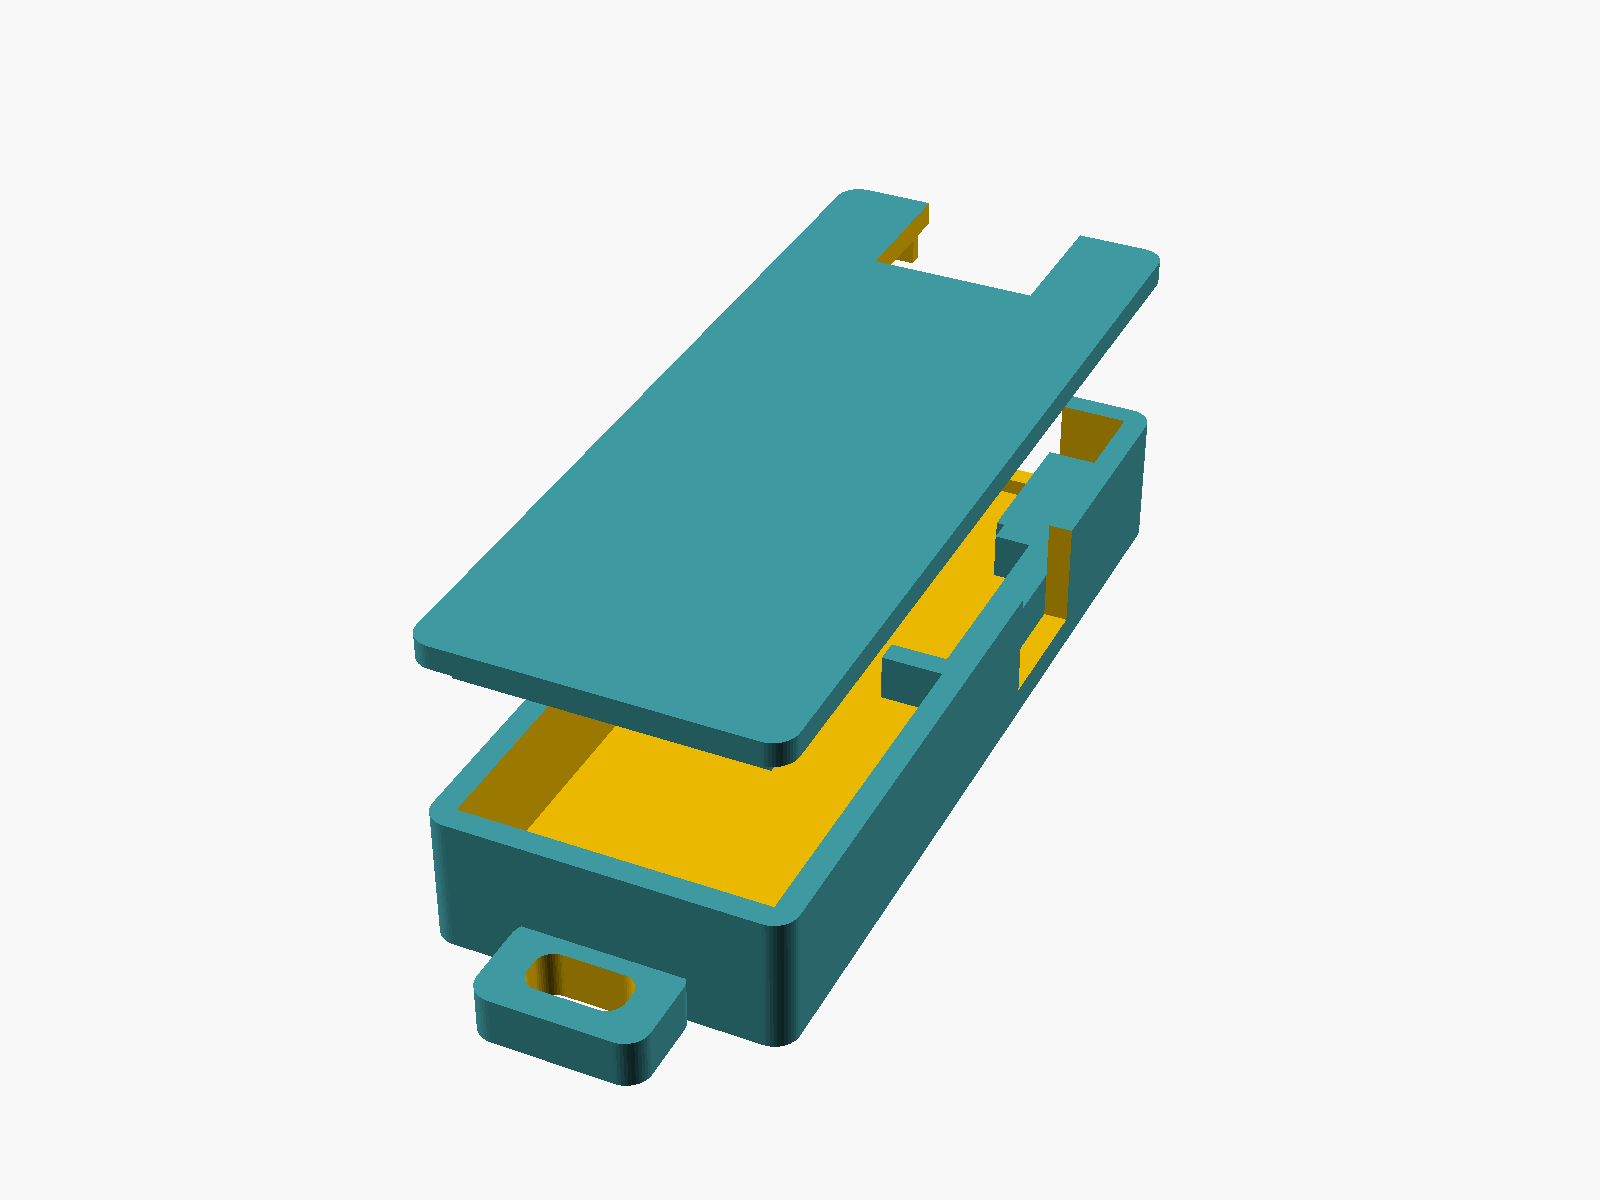
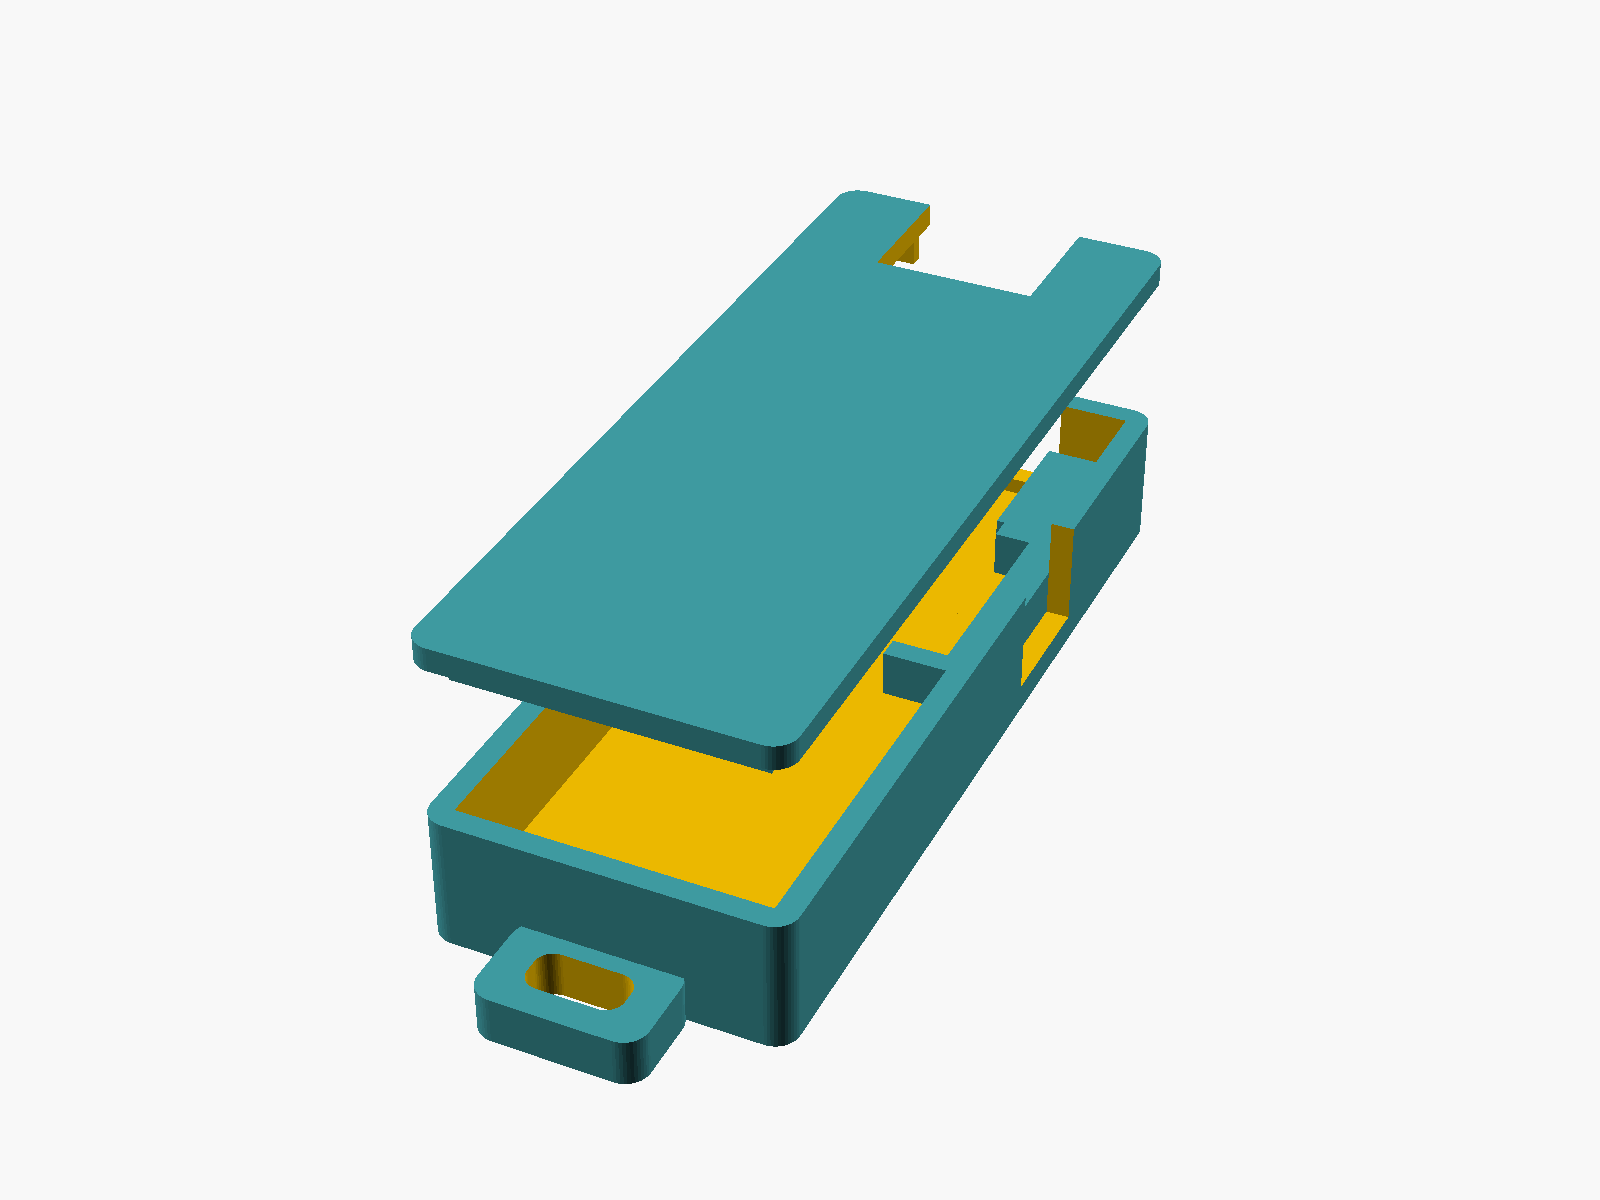
Add a Wi-Fi antenna recess to the tag case lid and match the default LiPo
Place the C5's bundled 14.3x5.3 mm FPC Wi-Fi antenna in a lid recess
above the C5, away from the UWB antenna and the battery. Change the
default battery size to the 400 mAh cell listed in the hardware guide
and note that the DIP pin headers must not be soldered.

diff --git a/docs/hardware.md b/docs/hardware.md
@@ -38,7 +38,7 @@
 
 - **国内での入手先**: スイッチサイエンスで[M5Stamp UWBモジュール(FPCコネクタ、FPCケーブル付き)M5STACK-S017-F](https://www.switch-science.com/products/11375)と[M5StampC5 DIP M5STACK-S016-DIP](https://www.switch-science.com/products/11352)が扱われており、本ドキュメントの想定構成と一致する。アンカー・タグとも同一ユニットなので、両方をノード台数分そろえる。
 - **Stamp C5「DIP」版のピンヘッダ**: DIP版には2.54mm-7Pピンヘッダ2本が付属するが、UWB FとはFPCで直結するため**はんだ付けは不要**。§4の3Dプリントモデルはヘッダなしの公称寸法で作っているので、ヘッダを付けるとケース・取付具に収まらない可能性がある。
-- **Wi-Fi用外付けアンテナ**: Stamp C5のWi-Fiは付属アンテナ(FPCアンテナ、2.4/5 GHz、IPEX-1、14.3×5.3 mm、ケーブル長50 mm。[公式ドキュメント](https://docs.m5stack.com/en/core/Stamp-C5)参照)をIPEX-1コネクタにつないで使う。Stamp C5に同梱されているので別途購入は不要。タグはWi-Fiテレメトリに必須(アンカーはWi-Fi不要)。現行の3DプリントモデルはWi-Fiアンテナの配置を考慮していないため、収めるときは取り回しを確認する(UWBアンテナ端と重ねない)。
+- **Wi-Fi用外付けアンテナ**: Stamp C5のWi-Fiは付属アンテナ(FPCアンテナ、2.4/5 GHz、IPEX-1、14.3×5.3 mm、ケーブル長50 mm。[公式ドキュメント](https://docs.m5stack.com/en/core/Stamp-C5)参照)をIPEX-1コネクタにつないで使う。Stamp C5に同梱されているので別途購入は不要。タグはWi-Fiテレメトリに必須(アンカーはWi-Fi不要)。タグ用ケースではフタ裏の凹みに貼る(§4.2)。
 - **LiPoバッテリーは別途必要**(タグのみ)。Stamp C5の充電電流は約200 mAなので、1C充電で200 mA以上を受け入れられる容量(目安400 mAh以上)を選ぶ。候補例(いずれもJST PH 2ピン、保護回路付き。2026年10月時点で品切れのため購入時に在庫を確認):
   - [リチウムイオンポリマー電池 400mAh](https://www.switch-science.com/products/3118)(DPTL-DTP502535、37×25.5×5.2 mm、約13 g)
   - [リチウムイオン電池 900mAh](https://www.switch-science.com/catalog/2073/)(54×36×6.2 mm、約24 g。充電電流0.5C=450 mA以下の指定も満たす)
@@ -87,4 +87,4 @@ OpenSCADソースとSTLを **[hardware/cad/](../hardware/cad/)** に置いてい
 
 ![タグ用ケース3Dモデル(本体とフタ)](assets/cad-tag-case.png)
 
-本体 + 摩擦嵌合フタの2部品([tag_case.scad](../hardware/cad/tag_case.scad) / STL: [本体](../hardware/cad/stl/tag_case_body.stl)・[フタ](../hardware/cad/stl/tag_case_lid.stl))。内部はLiPo | C5 | UWB Fの3室で、アンテナ端はケース端とフタの開口(アンテナ窓)により樹脂で覆われない。USB-Cは側壁スロットから充電・書き込み可能で、バッテリー端にストラップループ付き。LiPo寸法は`bat`パラメータで変更できる。
+本体 + 摩擦嵌合フタの2部品([tag_case.scad](../hardware/cad/tag_case.scad) / STL: [本体](../hardware/cad/stl/tag_case_body.stl)・[フタ](../hardware/cad/stl/tag_case_lid.stl))。内部はLiPo | C5 | UWB Fの3室で、アンテナ端はケース端とフタの開口(アンテナ窓)により樹脂で覆われない。USB-Cは側壁スロットから充電・書き込み可能で、バッテリー端にストラップループ付き。C5のWi-Fi用FPCアンテナはフタ裏の凹み(C5の真上)に貼る。LiPo寸法は`bat`パラメータで変更できる(既定は§1.4の400 mAh品)。

diff --git a/hardware/cad/README.md b/hardware/cad/README.md
@@ -2,7 +2,7 @@
 
 [docs/hardware.md](../../docs/hardware.md)のハードウェアリストにある「アンカー取付具」「タグ用ケース」の3Dプリント用モデル。OpenSCADのパラメトリックソースと、書き出し済みSTLを置いている。
 
-> **注意**: ボード寸法は公式ストアの公称値(C5: 17.6×19.1×3.4 mm / UWB F: 11.5×12.0×2.8 mm)ベースの**v1モデルで、実機でのフィット確認は未実施**。印刷後に合わなければ`common.scad`の`tol`(片側クリアランス)や各パラメータを調整すること。
+> **注意**: ボード寸法は公式ストアの公称値(C5: 17.6×19.1×3.4 mm / UWB F: 11.5×12.0×2.8 mm)ベースの**v1モデルで、実機でのフィット確認は未実施**。C5はDIP版付属のピンヘッダを**はんだ付けしない**前提(付けると収まらない)。印刷後に合わなければ`common.scad`の`tol`(片側クリアランス)や各パラメータを調整すること。
 
 ## ファイル
 
@@ -21,6 +21,7 @@
 ![アンカー取付具3Dモデル](../../docs/assets/cad-anchor-mount.png)
 
 - 垂直プレートを皿ネジM3×3本で壁・柱に固定。プレート前面のポケットにC5、上部棚の上面ポケットにUWB Fを置く(固定は薄手の両面テープを想定)
+- アンカーはWi-Fiを使わないため、C5付属のWi-Fiアンテナは取り付けなくてよい(取付具にも収納場所はない)
 - UWB Fの**アンテナ端は棚の前縁(壁と反対側)を向き、周囲に樹脂・壁が無い**(基本設計 §3.3の「金属・壁から離して突き出す」要求に対応)
 - FPCはプレート前面の溝 → 棚のスリット経由で両ボードの背面コネクタへ(ボードは部品面が表)
 - USB給電ケーブルは下方へ引き出し、ケーブルタイ用スリットで張力止め
@@ -32,7 +33,8 @@
 - 内部は長手方向にLiPo | C5 | UWB Fの3室。仕切りは側方スタブのみで、中央はバッテリー配線とFPCの通り道
 - UWB Fの**アンテナ端はケース端・フタの開口(アンテナ窓)で樹脂に覆われない**
 - C5のUSB-Cは側壁スロットから充電・書き込み可能。バッテリー端にストラップループ
-- フタはスカートによる摩擦嵌合。LiPo寸法は`bat`パラメータ(既定25×36×6.5 mm ≒ 602535 500 mAh)で変更
+- C5同梱のWi-Fi用FPCアンテナ(14.3×5.3 mm、IPEX-1)は**フタ裏の凹み(C5ゾーンの真上)に貼る**。UWB FのアンテナやLiPoから離して配置し、ケーブル(50 mm)はキャビティ内で余らせる
+- フタはスカートによる摩擦嵌合。LiPo寸法は`bat`パラメータ(既定25.5×37×5.2 mm = [docs/hardware.md](../../docs/hardware.md) §1.4の候補例 DPTL-DTP502535 400 mAh)で変更
 
 ## 印刷設定の目安
 
